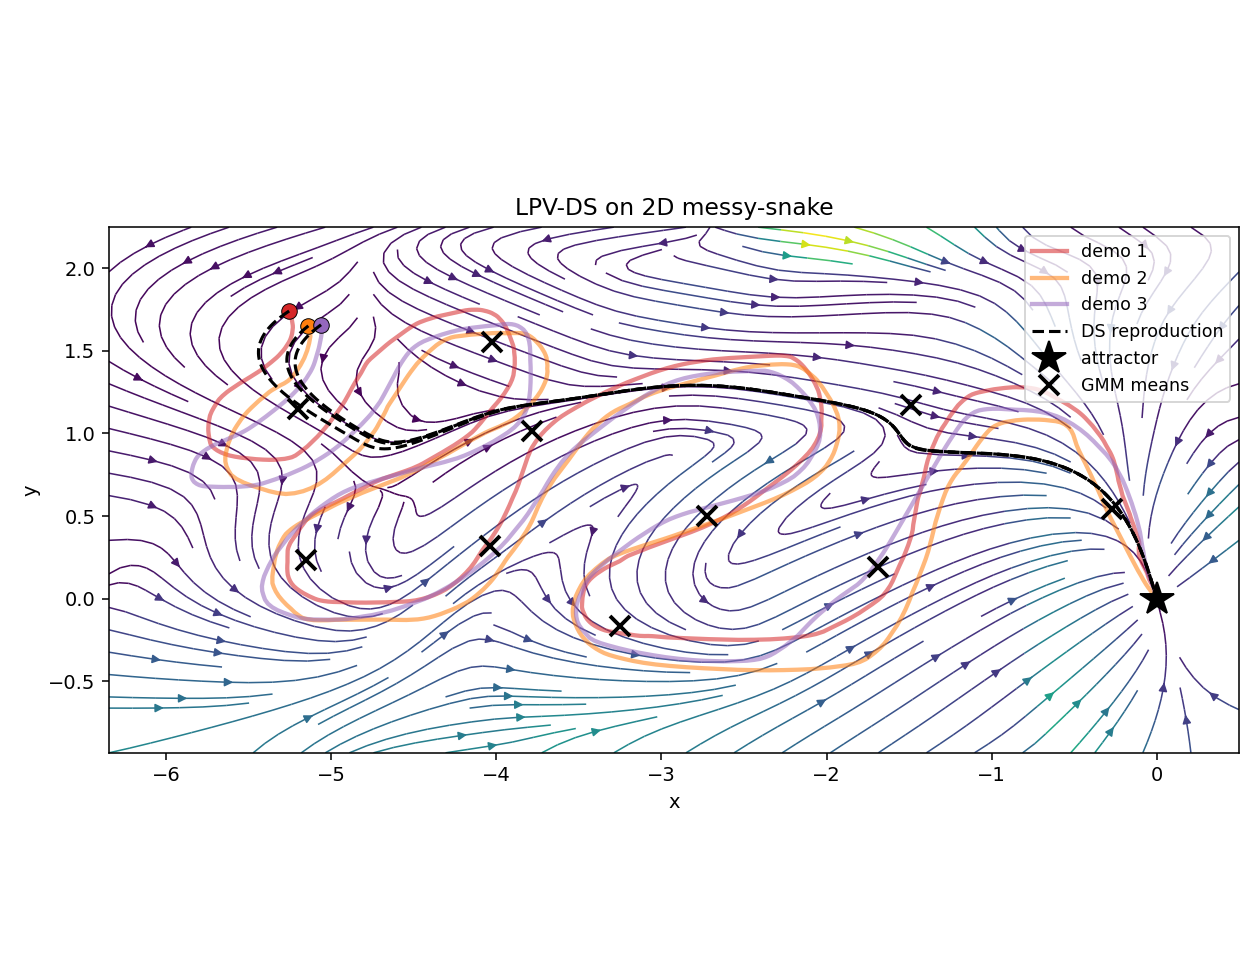
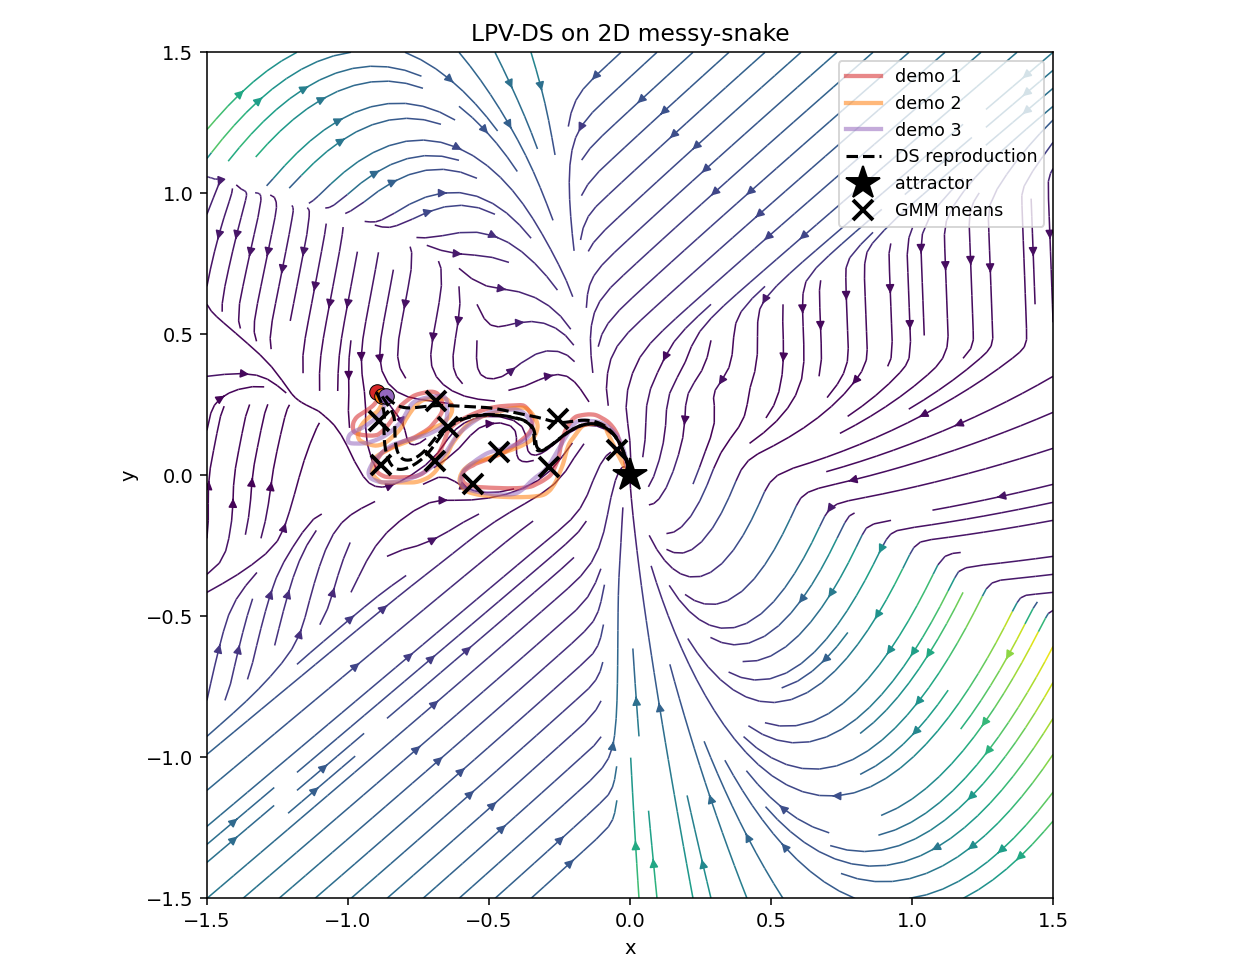
update

diff --git a/scripts/train_SEDS_messy_snake.py b/scripts/train_SEDS_messy_snake.py
@@ -56,6 +56,43 @@ def stack(demos):
     Xd = np.hstack([v for _, v in demos])
     return X, Xd
 
+
+def preprocess(demos):
+    """Three-step preprocessing:
+      1. Min-max normalize positions (and velocities) to [-1, 1].
+      2. Shift attractor (mean of demo endpoints) to the origin.
+      3. Re-normalize to [-1, 1] by dividing by the per-axis max absolute
+         value — scale-only, no shift, so the attractor stays at the origin.
+
+    Returns preprocessed demos; attractor is np.zeros(d) by construction.
+    """
+    # Step 1: global min-max normalise to [-1, 1]
+    all_pos = np.hstack([p for p, _ in demos])          # (d, N_total)
+    # p_min = all_pos.min(axis=1, keepdims=True)
+    # p_max = all_pos.max(axis=1, keepdims=True)
+    p_min = all_pos.min()
+    p_max = all_pos.max()
+    s1 = 2.0 / (p_max - p_min)
+
+    demos1 = [((p - p_min) * s1 - 1.0, v * s1) for p, v in demos]
+
+    # Step 2: shift attractor (mean of endpoints) to origin
+    att1 = np.mean(
+        np.hstack([p[:, -1:] for p, _ in demos1]), axis=1, keepdims=True
+    )
+    demos2 = [(p - att1, v) for p, v in demos1]
+
+    # Step 3: re-normalise to [-1, 1] via per-axis max-abs scaling (no shift)
+    # This keeps the attractor at the origin.
+    all_pos2 = np.hstack([p for p, _ in demos2])
+    # s2 = 1.0 / np.abs(all_pos2).max(axis=1, keepdims=True)
+    s2 = 1.0 / np.abs(all_pos2).max()
+
+    demos3 = [(p * s2, v * s2) for p, v in demos2]
+
+    return demos3, np.zeros(all_pos.shape[0])
+
+
 def vec_lower(L, diag_floor=1e-3):
     """Pack lower-triangular matrix into a flat vector.
 
@@ -245,14 +282,25 @@ def fit_seds(X, Xd, K, attractor=None, max_iter=200, seed=0, verbose=True):
     theta0 = pack(K, d, log_pi0, mu_x0, L_xx0, S_xxd0, L_cond0)
 
     # 2) Objective: mean-squared GMR prediction error
+    # def objective(theta):
+    #     log_pi, mu_x, L_xx, S_xxd, L_cond = unpack(theta, K, d)
+    #     pi, mu_x, Sxx, A, b, mu_xd = model_to_lpv(
+    #         log_pi, mu_x, L_xx, S_xxd, L_cond, attractor)
+    #     pred = gmr_predict(X, pi, mu_x, Sxx, A, mu_xd)
+    #     return float(np.mean((pred - Xd) ** 2))
+    mu_x_init = mu_x0.copy()  # init_from_em 호출 후 저장
+
     def objective(theta):
         log_pi, mu_x, L_xx, S_xxd, L_cond = unpack(theta, K, d)
-        pi, mu_x, Sxx, A, b, mu_xd = model_to_lpv(
+        pi, _, Sxx, A, b, mu_xd = model_to_lpv(
             log_pi, mu_x, L_xx, S_xxd, L_cond, attractor)
         pred = gmr_predict(X, pi, mu_x, Sxx, A, mu_xd)
-        return float(np.mean((pred - Xd) ** 2))
+        mse = np.mean((pred - Xd) ** 2)
+        anchor_penalty = 1.0 * np.sum((mu_x - mu_x_init) ** 2)
+        return float(mse + anchor_penalty)
 
-    eps = 5e-2
+    # eps = 5e-2
+    eps = 1e-2
 
     def stability_con(theta):
         _, mu_x_, L_xx_, S_xxd_, L_cond_ = unpack(theta, K, d)
@@ -324,12 +372,44 @@ def simulate(x0, model, dt=0.01, T=4000, tol=1e-3):
             break
     return np.array(traj).T
 
+# Metrics
+def dtw_distance(P, Q):
+    """DTW distance between trajectories P (d, T1) and Q (d, T2)."""
+    n, m = P.shape[1], Q.shape[1]
+    dtw = np.full((n + 1, m + 1), np.inf)
+    dtw[0, 0] = 0.0
+    for i in range(1, n + 1):
+        for j in range(1, m + 1):
+            cost = np.linalg.norm(P[:, i - 1] - Q[:, j - 1])
+            dtw[i, j] = cost + min(dtw[i-1, j], dtw[i, j-1], dtw[i-1, j-1])
+    return dtw[n, m]
+
+
+
+def compute_metrics(demos, model):
+    """Compute per-demo DTWD and overall velocity RMSE."""
+    X_all  = np.hstack([p for p, _ in demos])
+    Xd_all = np.hstack([v for _, v in demos])
+    Xd_pred = seds_velocity(X_all, model)
+    vel_rmse = np.sqrt(np.mean(np.sum((Xd_pred - Xd_all) ** 2, axis=0)))
+
+    dtwds = []
+    for i, (p, _) in enumerate(demos):
+        repro = simulate(p[:, 0].copy(), model, dt=0.01, T=4000, tol=1e-3)
+        d = dtw_distance(p, repro)
+        dtwds.append(d)
+        print(f"   demo {i+1}: DTWD = {d:.4f}")
+
+    mean_dtwd = float(np.mean(dtwds))
+    print(f"   Mean DTWD     = {mean_dtwd:.4f}")
+    print(f"   Velocity RMSE = {vel_rmse:.4f}")
+    return mean_dtwd, vel_rmse
+
+
 # Plotting
 def plot_results(demos, model, save_path):
-    X_all, _ = stack(demos)
-    pad = 0.5
-    x_min, x_max = X_all[0].min() - pad, X_all[0].max() + pad
-    y_min, y_max = X_all[1].min() - pad, X_all[1].max() + pad
+    x_min, x_max = -1.5, 1.5
+    y_min, y_max = -1.5, 1.5
 
     nx = ny = 60
     xs = np.linspace(x_min, x_max, nx)
@@ -367,7 +447,7 @@ def plot_results(demos, model, save_path):
     ax.set_title("SEDS on 2D messy-snake")
     ax.legend(loc="best", fontsize=9)
     plt.tight_layout()
-    plt.savefig(save_path, dpi=140); plt.close(fig)
+    plt.savefig(save_path, dpi=300); plt.close(fig)
     print(f"  saved figure -> {save_path}")
 
 
@@ -378,20 +458,24 @@ def main():
     out_dir = "./outputs"
     os.makedirs(out_dir, exist_ok=True)
 
-    print("[1/4] Loading demonstrations ...")
-    demos = load_demos("third_party/corl18/2D_messy-snake.mat")
-    for i, (p, v) in enumerate(demos):
+    print("[1/5] Loading demonstrations ...")
+    demos_raw = load_demos("third_party/corl18/2D_messy-snake.mat")
+    for i, (p, v) in enumerate(demos_raw):
         print(f"   demo {i + 1}: {p.shape[1]} samples,"
               f" start=({p[0,0]:.2f},{p[1,0]:.2f}),"
               f" end=({p[0,-1]:.2f},{p[1,-1]:.2f})")
+
+    print("[2/5] Preprocessing (min-max -> shift attractor -> re-normalize) ...")
+    demos, attractor = preprocess(demos_raw)
     X, Xd = stack(demos)
     print(f"   total: {X.shape[1]} (pos, vel) pairs")
+    print(f"   attractor in preprocessed space: ({attractor[0]:.4f}, {attractor[1]:.4f})")
 
-    K = 6                    # SEDS is sensitive to K; 4-8 is typical for LASA
-    print(f"[2/4] Initialising SEDS from joint-space EM-GMM (K={K}) ...")
+    K = 10                    # SEDS is sensitive to K; 4-8 is typical for LASA
+    print(f"[3/5] Initialising SEDS from joint-space EM-GMM (K={K}) ...")
 
-    print("[3/4] Optimising SEDS parameters under stability constraints ...")
-    model = fit_seds(X, Xd, K=K, attractor=np.zeros(2),
+    print("[4/5] Optimising SEDS parameters under stability constraints ...")
+    model = fit_seds(X, Xd, K=K, attractor=attractor,
                      max_iter=200, seed=0, verbose=True)
 
     # Sanity check: A_k + A_k^T must be negative-definite for all k
@@ -400,7 +484,10 @@ def main():
         emax = np.linalg.eigvalsh(sym).max()
         print(f"   comp {k}: max eig(A+Aᵀ) = {emax:+.3e}  (should be < 0)")
 
-    print("[4/4] Plotting & saving ...")
+    print("[5/5] Computing metrics ...")
+    compute_metrics(demos, model)
+
+    print("[6/6] Plotting & saving ...")
     fig_path   = os.path.join(out_dir, "seds_messy_snake.png")
     model_path = os.path.join(out_dir, "seds_messy_snake.pkl")
     plot_results(demos, model, fig_path)

diff --git a/scripts/train_LPVDS_messy_snake.py b/scripts/train_LPVDS_messy_snake.py
@@ -45,10 +45,42 @@ def load_demos(path):
 
 
 def stack(demos):
-    """Concatenate every (pos, vel) pair column-wise."""
     X = np.hstack([p for p, _ in demos])
     Xd = np.hstack([v for _, v in demos])
     return X, Xd
+
+
+def preprocess(demos):
+    """Three-step preprocessing:
+      1. Min-max normalize positions (and velocities) to [-1, 1].
+      2. Shift attractor (mean of demo endpoints) to the origin.
+      3. Re-normalize to [-1, 1] by dividing by the per-axis max absolute
+         value — scale-only, no shift, so the attractor stays at the origin.
+
+    Returns preprocessed demos; attractor is np.zeros(d) by construction.
+    """
+    # Step 1: global min-max normalise to [-1, 1]
+    all_pos = np.hstack([p for p, _ in demos])
+    p_min = all_pos.min()
+    p_max = all_pos.max()
+    s1 = 2.0 / (p_max - p_min)
+
+    demos1 = [((p - p_min) * s1 - 1.0, v * s1) for p, v in demos]
+
+    # Step 2: shift attractor (mean of endpoints) to origin
+    att1 = np.mean(
+        np.hstack([p[:, -1:] for p, _ in demos1]), axis=1, keepdims=True
+    )
+    demos2 = [(p - att1, v) for p, v in demos1]
+
+    # Step 3: re-normalise to [-1, 1] via per-axis max-abs scaling (no shift)
+    # This keeps the attractor at the origin.
+    all_pos2 = np.hstack([p for p, _ in demos2])
+    s2 = 1.0 / np.abs(all_pos2).max()  
+
+    demos3 = [(p * s2, v * s2) for p, v in demos2]
+
+    return demos3, np.zeros(all_pos.shape[0])
 
 
  # GMM mixing functions
@@ -67,7 +99,7 @@ def fit_gmm(X, max_components=10, random_state=0):
     K = int(keep.sum())
     weights = bgmm.weights_[keep] / bgmm.weights_[keep].sum()
     means   = bgmm.means_[keep]                 # (K, d)
-    covs    = bgmm.covariances_[keep]           # (K, d, d)
+    covs    = bgmm.covariances_[keep] * 4.0 # multiply cov inflate           # (K, d, d)
     print(f"  -> kept {K} active components (out of {max_components})")
     return weights, means, covs
 
@@ -114,7 +146,8 @@ def learn_lpvds(X, Xd, gamma, attractor=None, eps=1e-3):
         attractor = np.zeros(d)
     Xc = X - attractor[:, None]
 
-    P = estimate_P(X, attractor)
+    # P = estimate_P(X, attractor)
+    P = np.eye(d)
     print(f"   P eigenvalues: {np.linalg.eigvalsh(P)}")
 
     Ak = [cp.Variable((d, d)) for _ in range(K)]
@@ -164,11 +197,46 @@ def simulate(x0, weights, means, covs, A, b, dt=0.01, T=2000, tol=1e-3):
         if np.linalg.norm(v) < tol:
             break
     return np.array(traj).T
+
+
+def dtw_distance(P, Q):
+    """DTW distance between trajectories P (d, T1) and Q (d, T2)."""
+    n, m = P.shape[1], Q.shape[1]
+    dtw = np.full((n + 1, m + 1), np.inf)
+    dtw[0, 0] = 0.0
+    for i in range(1, n + 1):
+        for j in range(1, m + 1):
+            cost = np.linalg.norm(P[:, i - 1] - Q[:, j - 1])
+            dtw[i, j] = cost + min(dtw[i-1, j], dtw[i, j-1], dtw[i-1, j-1])
+    return dtw[n, m]
+
+
+def compute_metrics(demos, weights, means, covs, A, b):
+    """Compute per-demo DTWD and overall velocity RMSE."""
+    # Velocity RMSE over all demo data
+    X_all = np.hstack([p for p, _ in demos])
+    Xd_all = np.hstack([v for _, v in demos])
+    Xd_pred = lpvds_velocity(X_all, weights, means, covs, A, b)
+    vel_rmse = np.sqrt(np.mean(np.sum((Xd_pred - Xd_all) ** 2, axis=0)))
+
+    # DTWD: reproduced trajectory vs. demonstration
+    dtwds = []
+    for i, (p, _) in enumerate(demos):
+        repro = simulate(p[:, 0].copy(), weights, means, covs, A, b,
+                         dt=0.01, T=4000, tol=1e-3)
+        d = dtw_distance(p, repro)
+        dtwds.append(d)
+        print(f"   demo {i+1}: DTWD = {d:.4f}")
+
+    mean_dtwd = float(np.mean(dtwds))
+    print(f"   Mean DTWD     = {mean_dtwd:.4f}")
+    print(f"   Velocity RMSE = {vel_rmse:.4f}")
+    return mean_dtwd, vel_rmse
+
+
 def plot_results(demos, weights, means, covs, A, b, save_path):
-    X_all, _ = stack(demos)
-    pad = 0.5
-    x_min, x_max = X_all[0].min() - pad, X_all[0].max() + pad
-    y_min, y_max = X_all[1].min() - pad, X_all[1].max() + pad
+    x_min, x_max = -1.5, 1.5
+    y_min, y_max = -1.5, 1.5
  
     # Streamline grid
     nx, ny = 60, 60
@@ -226,28 +294,38 @@ def main():
     out_dir = "./outputs"
     os.makedirs(out_dir, exist_ok=True)
 
-    print("[1/4] Loading demonstrations ...")
-    demos = load_demos("third_party/corl18/2D_messy-snake.mat")
-    for i, (p, v) in enumerate(demos):
+    print("[1/5] Loading demonstrations ...")
+    demos_raw = load_demos("third_party/corl18/2D_messy-snake.mat")
+    for i, (p, v) in enumerate(demos_raw):
         print(f"   demo {i + 1}: {p.shape[1]} samples,"
               f" start=({p[0,0]:.2f},{p[1,0]:.2f}),"
               f" end=({p[0,-1]:.2f},{p[1,-1]:.2f})")
+
+    print("[2/5] Preprocessing (min-max -> shift attractor -> re-normalize) ...")
+    demos, attractor = preprocess(demos_raw)
     X, Xd = stack(demos)
     print(f"   total: {X.shape[1]} (pos, vel) pairs")
 
-    print("[2/4] Fitting GMM (Bayesian, auto-K) ...")
+    print("[3/5] Fitting GMM (Bayesian, auto-K) ...")
     weights, means, covs = fit_gmm(X, max_components=10)
     gamma = posterior(X, weights, means, covs)
 
-    print("[3/4] Solving stable LPV-DS SDP ...")
-    A, b, P = learn_lpvds(X, Xd, gamma, attractor=np.zeros(2), eps=1e-3)
+    print("[4/5] Solving stable LPV-DS SDP ...")
+    A, b, P = learn_lpvds(X, Xd, gamma, attractor=attractor, eps=1e-3)
+    
+    # Gamma sharpness
+    entropy = (-gamma * np.log(gamma + 1e-12)).sum(axis=0).mean()
+    print(f"gamma avg entropy: {entropy:.3f} / log(K)={np.log(len(weights)):.3f}")
 
     # Sanity-check eigenvalues of A_k^T P + P A_k
     for k in range(len(weights)):
         eigs = np.linalg.eigvalsh(A[k].T @ P + P @ A[k])
         print(f"   comp {k}: max eig(AᵀP+PA) = {eigs.max(): .3e}  (should be < 0)")
 
-    print("[4/4] Plotting & saving ...")
+    print("[5/6] Computing metrics ...")
+    compute_metrics(demos, weights, means, covs, A, b)
+
+    print("[6/6] Plotting & saving ...")
     fig_path = os.path.join(out_dir, "lpvds_messy_snake.png")
     plot_results(demos, weights, means, covs, A, b, fig_path)
 
@@ -255,7 +333,7 @@ def main():
     with open(model_path, "wb") as f:
         pickle.dump(
             dict(weights=weights, means=means, covs=covs, A=A, b=b, P=P,
-                 attractor=np.zeros(2)),
+                 attractor=attractor),
             f,
         )
     print(f"  saved model   -> {model_path}")